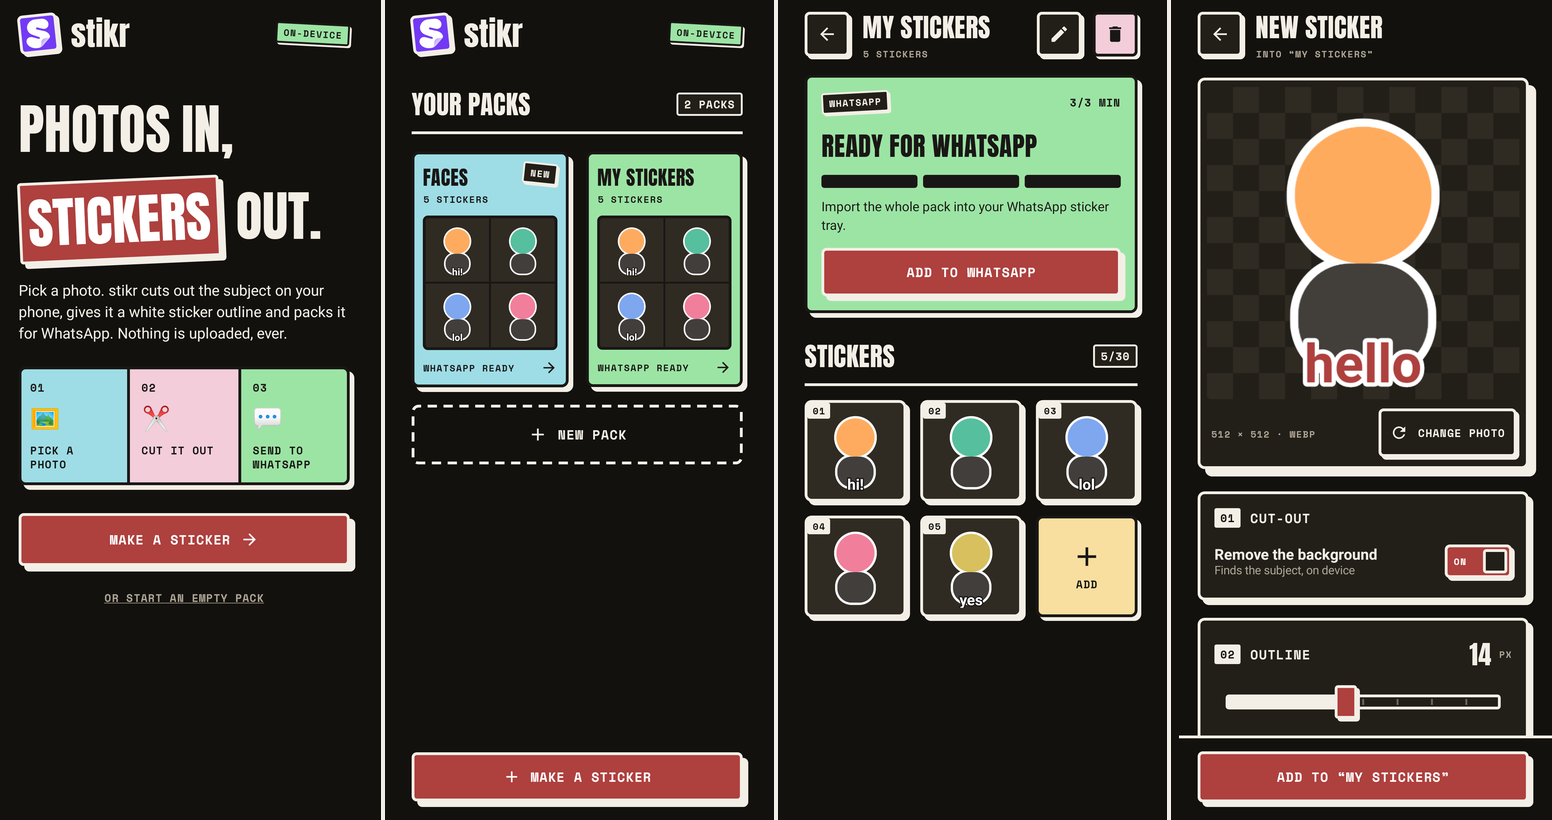
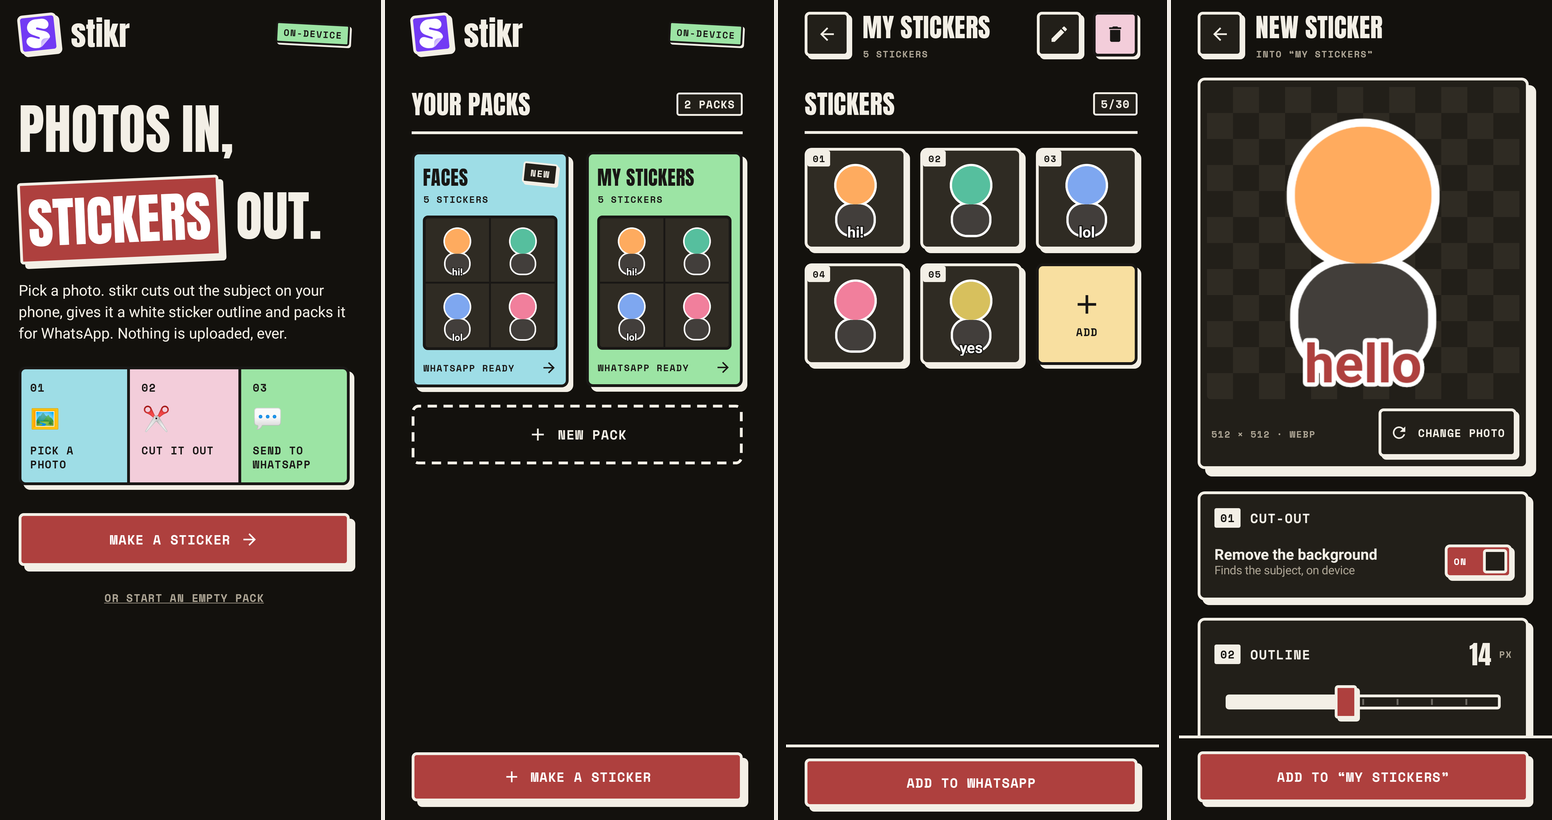
feat(pack): pin Add to WhatsApp at the bottom of the pack screen
The import action now lives in an ink-ruled band pinned above the system
navigation, always visible when a pack is open: the button when the pack
qualifies, a 'more to go' hint while it doesn't, the preparing progress
mid-export, and the no-WhatsApp fallback pointing at sharing. The bulky
export card at the top of the grid is gone — the screen now opens straight
on the stickers.

Changed region(s): [[0.4948, 0.0915, 0.7423, 0.7622], [0.4948, 0.8841, 0.7423, 1.0]]

diff --git a/app/src/main/java/com/stikr/app/ui/PackScreen.kt b/app/src/main/java/com/stikr/app/ui/PackScreen.kt
@@ -13,6 +13,7 @@ import androidx.compose.foundation.layout.asPaddingValues
 import androidx.compose.foundation.layout.fillMaxSize
 import androidx.compose.foundation.layout.fillMaxWidth
 import androidx.compose.foundation.layout.height
+import androidx.compose.foundation.layout.heightIn
 import androidx.compose.foundation.layout.padding
 import androidx.compose.foundation.layout.size
 import androidx.compose.foundation.layout.systemBars
@@ -38,7 +39,6 @@ import androidx.compose.runtime.saveable.rememberSaveable
 import androidx.compose.runtime.setValue
 import androidx.compose.ui.Alignment
 import androidx.compose.ui.Modifier
-import androidx.compose.ui.graphics.Color
 import androidx.compose.ui.draw.rotate
 import androidx.compose.ui.platform.LocalContext
 import androidx.compose.ui.semantics.contentDescription
@@ -57,11 +57,9 @@ import com.stikr.app.ui.neo.NeoDialog
 import com.stikr.app.ui.neo.NeoEmptyState
 import com.stikr.app.ui.neo.NeoHaptic
 import com.stikr.app.ui.neo.NeoIconButton
-import com.stikr.app.ui.neo.NeoMeter
 import com.stikr.app.ui.neo.NeoOutlinedButton
 import com.stikr.app.ui.neo.NeoProgressBar
 import com.stikr.app.ui.neo.NeoSectionHeader
-import com.stikr.app.ui.neo.NeoTag
 import com.stikr.app.ui.neo.NeoTone
 import com.stikr.app.ui.neo.neoFrame
 import com.stikr.app.ui.theme.NeoDimens
@@ -93,71 +91,71 @@ fun PackScreen(
     val full = count >= PackRepository.MAX_WHATSAPP_STICKERS
     val bars = WindowInsets.systemBars.asPaddingValues()
 
-    LazyVerticalGrid(
-        columns = GridCells.Fixed(3),
-        modifier = Modifier
-            .fillMaxSize()
-            .background(palette.paper),
-        contentPadding = PaddingValues(
-            start = NeoDimens.gutter,
-            end = NeoDimens.gutter + NeoDimens.shadowSmall,
-            top = bars.calculateTopPadding() + 8.dp,
-            bottom = bars.calculateBottomPadding() + 40.dp,
-        ),
-        horizontalArrangement = Arrangement.spacedBy(NeoDimens.gapSmall + NeoDimens.shadowSmall),
-        verticalArrangement = Arrangement.spacedBy(NeoDimens.gapSmall + NeoDimens.shadowSmall),
-    ) {
-        item(span = { GridItemSpan(maxLineSpan) }, key = "top", contentType = "top") {
-            TopBar(
-                pack = pack,
-                onBack = onBack,
-                onRename = { showRename = true },
-                onDelete = { showDelete = true },
-            )
-        }
-
-        if (count == 0) {
-            item(span = { GridItemSpan(maxLineSpan) }, key = "empty", contentType = "empty") {
-                NeoEmptyState(
-                    title = "No stickers yet",
-                    body = "Pick a photo — stikr cuts the subject out right on your phone.",
-                    action = "Add first sticker",
-                    onAction = onAddSticker,
-                    modifier = Modifier.padding(top = 8.dp),
-                    art = { EmptyArt() },
+    Box(modifier = Modifier.fillMaxSize().background(palette.paper)) {
+        LazyVerticalGrid(
+            columns = GridCells.Fixed(3),
+            modifier = Modifier.fillMaxSize(),
+            contentPadding = PaddingValues(
+                start = NeoDimens.gutter,
+                end = NeoDimens.gutter + NeoDimens.shadowSmall,
+                top = bars.calculateTopPadding() + 8.dp,
+                // Room for the pinned export band, so the last row scrolls clear of it.
+                bottom = bars.calculateBottomPadding() + 136.dp,
+            ),
+            horizontalArrangement = Arrangement.spacedBy(NeoDimens.gapSmall + NeoDimens.shadowSmall),
+            verticalArrangement = Arrangement.spacedBy(NeoDimens.gapSmall + NeoDimens.shadowSmall),
+        ) {
+            item(span = { GridItemSpan(maxLineSpan) }, key = "top", contentType = "top") {
+                TopBar(
+                    pack = pack,
+                    onBack = onBack,
+                    onRename = { showRename = true },
+                    onDelete = { showDelete = true },
                 )
             }
-            return@LazyVerticalGrid
-        }
 
-        item(span = { GridItemSpan(maxLineSpan) }, key = "export", contentType = "export") {
-            ExportCard(
-                count = count,
-                whatsAppInstalled = whatsAppInstalled,
-                exporting = exporting,
-                onExport = onExport,
-                onAddSticker = onAddSticker,
-            )
-        }
-        item(span = { GridItemSpan(maxLineSpan) }, key = "header", contentType = "header") {
-            NeoSectionHeader(
-                title = "Stickers",
-                meta = "$count/${PackRepository.MAX_WHATSAPP_STICKERS}",
-                modifier = Modifier.padding(top = 10.dp),
-            )
-        }
-        itemsIndexed(pack.stickers, key = { _, name -> name }, contentType = { _, _ -> "sticker" }) { index, fileName ->
-            StickerTile(
-                file = dir.resolve(fileName),
-                number = index + 1,
-                onClick = { openSticker = fileName },
-            )
-        }
-        if (!full) {
-            item(key = "add", contentType = "add") {
-                AddTile(onClick = onAddSticker)
+            if (count == 0) {
+                item(span = { GridItemSpan(maxLineSpan) }, key = "empty", contentType = "empty") {
+                    NeoEmptyState(
+                        title = "No stickers yet",
+                        body = "Pick a photo — stikr cuts the subject out right on your phone.",
+                        action = "Add first sticker",
+                        onAction = onAddSticker,
+                        modifier = Modifier.padding(top = 8.dp),
+                        art = { EmptyArt() },
+                    )
+                }
+                return@LazyVerticalGrid
+            }
+
+            item(span = { GridItemSpan(maxLineSpan) }, key = "header", contentType = "header") {
+                NeoSectionHeader(
+                    title = "Stickers",
+                    meta = "$count/${PackRepository.MAX_WHATSAPP_STICKERS}",
+                    modifier = Modifier.padding(top = 10.dp),
+                )
+            }
+            itemsIndexed(pack.stickers, key = { _, name -> name }, contentType = { _, _ -> "sticker" }) { index, fileName ->
+                StickerTile(
+                    file = dir.resolve(fileName),
+                    number = index + 1,
+                    onClick = { openSticker = fileName },
+                )
+            }
+            if (!full) {
+                item(key = "add", contentType = "add") {
+                    AddTile(onClick = onAddSticker)
+                }
             }
         }
+
+        ExportBar(
+            modifier = Modifier.align(Alignment.BottomCenter),
+            count = count,
+            whatsAppInstalled = whatsAppInstalled,
+            exporting = exporting,
+            onExport = onExport,
+        )
     }
 
     openSticker?.let { fileName ->
@@ -282,104 +280,84 @@ private fun TopBar(
 }
 
 /**
- * Where the pack stands with WhatsApp: how many more stickers it needs (a
- * three-cell meter), or the import button once it qualifies. Without
- * WhatsApp it says so and points at sharing single stickers instead.
+ * The WhatsApp action, pinned at the bottom of the pack screen: the import
+ * button once the pack qualifies, a "more to go" hint while it doesn't, the
+ * preparing spinner mid-export, and the no-WhatsApp fallback that points at
+ * sharing stickers one by one.
  */
 @Composable
-private fun ExportCard(
+private fun ExportBar(
+    modifier: Modifier = Modifier,
     count: Int,
     whatsAppInstalled: Boolean,
     exporting: Boolean,
     onExport: () -> Unit,
-    onAddSticker: () -> Unit,
 ) {
     val palette = Neo.palette
     val min = PackRepository.MIN_WHATSAPP_STICKERS
     val missing = (min - count).coerceAtLeast(0)
-    val ready = missing == 0
-    val fill = when {
-        !whatsAppInstalled -> palette.cyan
-        ready -> palette.green
-        else -> palette.butter
-    }
-    val ink = palette.onAccent
+    val ready = whatsAppInstalled && missing == 0
+    val nav = WindowInsets.systemBars.asPaddingValues().calculateBottomPadding()
 
-    NeoCard(
-        modifier = Modifier.fillMaxWidth(),
-        fill = fill,
-        padding = PaddingValues(18.dp),
+    Column(
+        modifier = modifier
+            .fillMaxWidth()
+            .background(palette.paper)
+            .padding(bottom = nav),
     ) {
-        Row(verticalAlignment = Alignment.CenterVertically) {
-            NeoTag(
-                text = if (whatsAppInstalled) "whatsapp" else "no whatsapp",
-                fill = palette.card,
-                rotation = -3f,
-            )
-            Spacer(Modifier.weight(1f))
-            if (whatsAppInstalled) {
+        Box(
+            Modifier
+                .fillMaxWidth()
+                .height(NeoDimens.border)
+                .background(palette.ink),
+        )
+        Column(
+            modifier = Modifier.padding(
+                start = NeoDimens.gutter,
+                end = NeoDimens.gutter + NeoDimens.shadowSmall,
+                top = 12.dp,
+                bottom = 14.dp,
+            ),
+        ) {
+            if (!whatsAppInstalled) {
                 Text(
-                    text = "${count.coerceAtMost(min)}/$min MIN",
-                    style = MaterialTheme.typography.labelMedium,
-                    color = ink,
+                    text = "WhatsApp isn’t on this phone — tap any sticker above to share it as an image",
+                    style = MaterialTheme.typography.bodyMedium,
+                    color = palette.muted,
+                    modifier = Modifier.padding(bottom = 10.dp),
+                )
+            } else if (!ready) {
+                Text(
+                    text = if (missing == 1) {
+                        "1 more sticker — WhatsApp takes packs of $min or more"
+                    } else {
+                        "$missing more stickers — WhatsApp takes packs of $min or more"
+                    },
+                    style = MaterialTheme.typography.bodyMedium,
+                    color = palette.muted,
+                    modifier = Modifier.padding(bottom = 10.dp),
                 )
             }
-        }
-        Spacer(Modifier.height(14.dp))
-        Text(
-            text = when {
-                !whatsAppInstalled -> "SHARE THEM ONE BY ONE"
-                ready -> "READY FOR WHATSAPP"
-                missing == 1 -> "1 MORE TO GO"
-                else -> "$missing MORE TO GO"
-            },
-            style = MaterialTheme.typography.headlineMedium,
-            color = ink,
-            modifier = Modifier.semantics { heading() },
-        )
-        if (whatsAppInstalled) {
-            Spacer(Modifier.height(10.dp))
-            NeoMeter(
-                value = count,
-                target = min,
-                fill = ink,
-                // Pastel cards stay light in both themes, so the empty cell does too.
-                empty = Color.White,
-                edge = ink,
-                modifier = Modifier.semantics {
-                    contentDescription = "$count of $min stickers WhatsApp needs"
-                },
-            )
-        }
-        Spacer(Modifier.height(12.dp))
-        Text(
-            text = when {
-                !whatsAppInstalled -> "WhatsApp isn’t on this phone. Tap any sticker below to share it as an image."
-                ready -> "Import the whole pack into your WhatsApp sticker tray."
-                else -> "WhatsApp only takes packs of $min or more stickers."
-            },
-            style = MaterialTheme.typography.bodyMedium,
-            color = ink,
-        )
-        if (whatsAppInstalled) {
-            Spacer(Modifier.height(16.dp))
-            when {
-                exporting -> Column {
-                    Text("PREPARING PACK…", style = MaterialTheme.typography.labelMedium, color = ink)
-                    Spacer(Modifier.height(8.dp))
-                    NeoProgressBar(contentDescription = "Preparing pack for WhatsApp")
+            if (exporting) {
+                // Same height as the button, so the band doesn't jump mid-export.
+                Box(
+                    modifier = Modifier
+                        .fillMaxWidth()
+                        .heightIn(min = 52.dp),
+                    contentAlignment = Alignment.Center,
+                ) {
+                    Column(horizontalAlignment = Alignment.CenterHorizontally) {
+                        Text("Preparing pack…", style = MaterialTheme.typography.labelMedium)
+                        Spacer(Modifier.height(10.dp))
+                        NeoProgressBar(contentDescription = "Preparing pack for WhatsApp")
+                    }
                 }
-                ready -> NeoButton(
+            } else {
+                NeoButton(
                     text = "Add to WhatsApp",
                     onClick = onExport,
+                    enabled = ready,
                     haptic = NeoHaptic.Confirm,
-                    modifier = Modifier.fillMaxWidth(),
-                )
-                else -> NeoButton(
-                    text = "Add a sticker",
-                    onClick = onAddSticker,
-                    icon = Icons.Default.Add,
-                    fill = palette.card,
                     modifier = Modifier.fillMaxWidth(),
                 )
             }

diff --git a/docs/site/use.html b/docs/site/use.html
@@ -15,7 +15,7 @@
 <main id="main" tabindex="-1">
 <div class="page-head"><span class="label">02 / From photo to pack</span><h1>Make it a sticker.</h1><p>Start with a photo on your phone. Finish with a sticker you can send.</p></div>
 <div class="prose"><section><h2>Make your first sticker</h2><ol><li>Open <strong>stikr</strong> and tap <strong>Make a sticker</strong>. You can also create a pack first.</li><li>Pick a photo with Android's system photo picker. stikr cuts out the subject automatically when cut-out is available.</li><li>Adjust the <strong>outline</strong> thickness and choose white or ink.</li><li>For a caption, enter your text, choose cream, ink, butter, or cherry, and place it at the top or bottom.</li><li>Tap <strong>Add to “<em>pack name</em>”</strong> to save the sticker.</li></ol><p class="notice">If automatic cut-out is unavailable, the full photo still works. Use the cut-out toggle to keep or remove the background when available.</p></section>
-<section><h2>Send a pack to WhatsApp</h2><ol><li>Add at least 3 stickers to a pack. A WhatsApp pack holds 3–30 stickers.</li><li>Open the pack and tap <strong>Add to WhatsApp</strong>.</li><li>Complete the import in WhatsApp or WhatsApp Business.</li></ol><p>If WhatsApp is unavailable, share a sticker as an image instead.</p></section>
+<section><h2>Send a pack to WhatsApp</h2><ol><li>Add at least 3 stickers to a pack. A WhatsApp pack holds 3–30 stickers.</li><li>Open the pack and tap <strong>Add to WhatsApp</strong> at the bottom of the screen.</li><li>Complete the import in WhatsApp or WhatsApp Business.</li></ol><p>If WhatsApp is unavailable, share a sticker as an image instead.</p></section>
 <section><h2>Share one sticker</h2><p>Tap the sticker in its pack and choose <strong>Share</strong>. Pick the destination in Android's share sheet. stikr shares a PNG image.</p></section>
 <section><h2>Keep your packs organised</h2><p>Create, rename, or delete packs, and add or delete stickers inside them. Packs live in the app's private storage on your phone.</p><p>stikr makes static stickers. Animated stickers, a tray-icon picker, multiple subjects, extra caption fonts, and emoji suggestions are not shipped.</p></section></div>
 </main>
